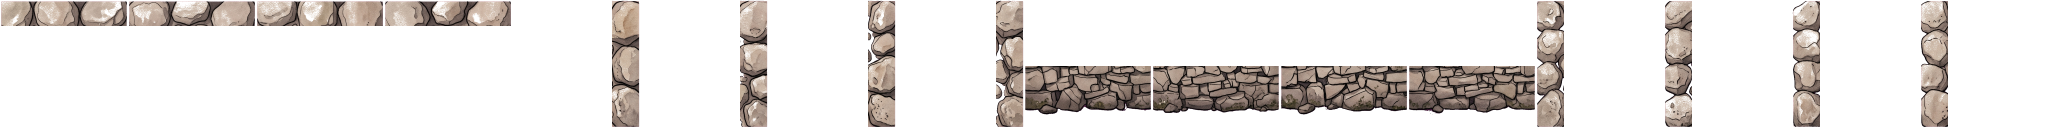
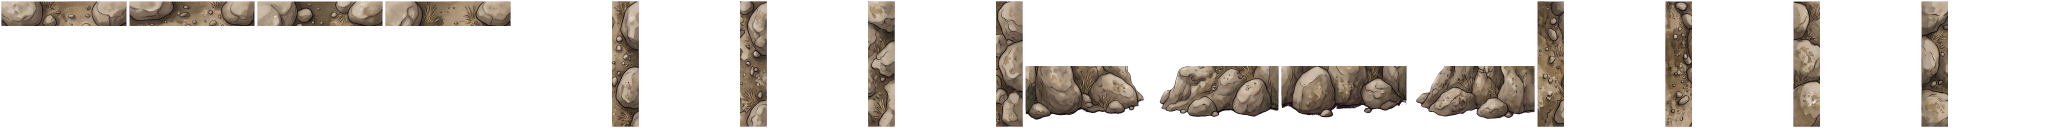
A cliff of weathered rock, not a dry-stone wall
The last cliff sheet read as masonry when rendered on real terrain -- neat
courses of rectangular stones, more field boundary than hillside. That was the
prompt's fault, not the model's: it asked for "a face of stacked, broken,
irregular stone blocks", and stacked blocks is a description of a wall. The new
one names what to avoid and asks for rounded weathered boulders, soil in the
gaps and grass rooted in the cracks. Nothing in it looks laid by hand.

The intake needed one fix to take it. Its shadow is darker than the previous
sheet's, and the chroma key missed it: 935 purple pixels banded under every
south face, well past the 100 the test allows.

**A fixed threshold cannot work here, and that is the interesting part.**
Magenta blended toward black keeps its proportions and loses its magnitude --
rgb(75,29,62) is unmistakably magenta and has a chroma of 33, against a bar set
at 45. The bar now scales with the pixel's own brightness, so it catches the
shadow at any depth while still ignoring anything whose green is not genuinely
suppressed. Stone and foliage have their green *between* red and blue or above
them, which makes the difference negative rather than small, so there is a wide
margin either side.

Both sheets key to zero magenta now, against 935 and 0 before.

diff --git a/tools/build-rims.js b/tools/build-rims.js
@@ -76,7 +76,7 @@ const DEPTH = { n: 0.20, e: 0.22, s: 0.48, w: 0.22 };
 
 /** Sheets to build: source file in assets/source, output name in assets. */
 const SHEETS = [
-  { id: 'cliffs', from: 'Gemini_cliff-rim3.png', to: 'cliffs.png' },
+  { id: 'cliffs', from: 'Gemini_Stones.png', to: 'cliffs.png' },
   { id: 'treeline', from: 'Gemini_tree-rim2.png', to: 'treeline.png' }
 ];
 
@@ -203,8 +203,16 @@ function isKey(data, i) {
   // What all of it shares is the structure of magenta rather than its value: red and blue close to
   // each other, green far below both. No stone, moss or foliage in these sheets does that -- their
   // green sits between red and blue, or above them.
+  // Magenta's signature is structural: red and blue close to each other, green well below both.
+  // No stone, moss or foliage in these sheets does that -- their green sits between red and blue,
+  // or above them, which makes this difference negative rather than large.
   const chroma = Math.min(r, b) - g;
-  if (chroma > 45 && Math.abs(r - b) < 60) return true;
+  // **Relative, not a fixed number, and that is the whole trick.** A flat threshold of 45 caught
+  // the bright background and missed the shadow under every south face, because magenta blended
+  // toward black keeps its *proportions* and loses its magnitude: rgb(75,29,62) is unmistakably
+  // magenta and has a chroma of 33. Scaling the bar with the pixel's own brightness catches the
+  // shadow at any depth while still ignoring anything whose green is not genuinely suppressed.
+  if (chroma > 14 && chroma > 0.22 * Math.max(r, b) && Math.abs(r - b) < 60) return true;
   // The other background. Both sheets are painted with the brief's "warm paper undertone", and the
   // model puts a band of that bare paper under the south row where the ground would be -- correct
   // in a painting, wrong in an overlay, where it lands as a bright cream halo under every treeline
